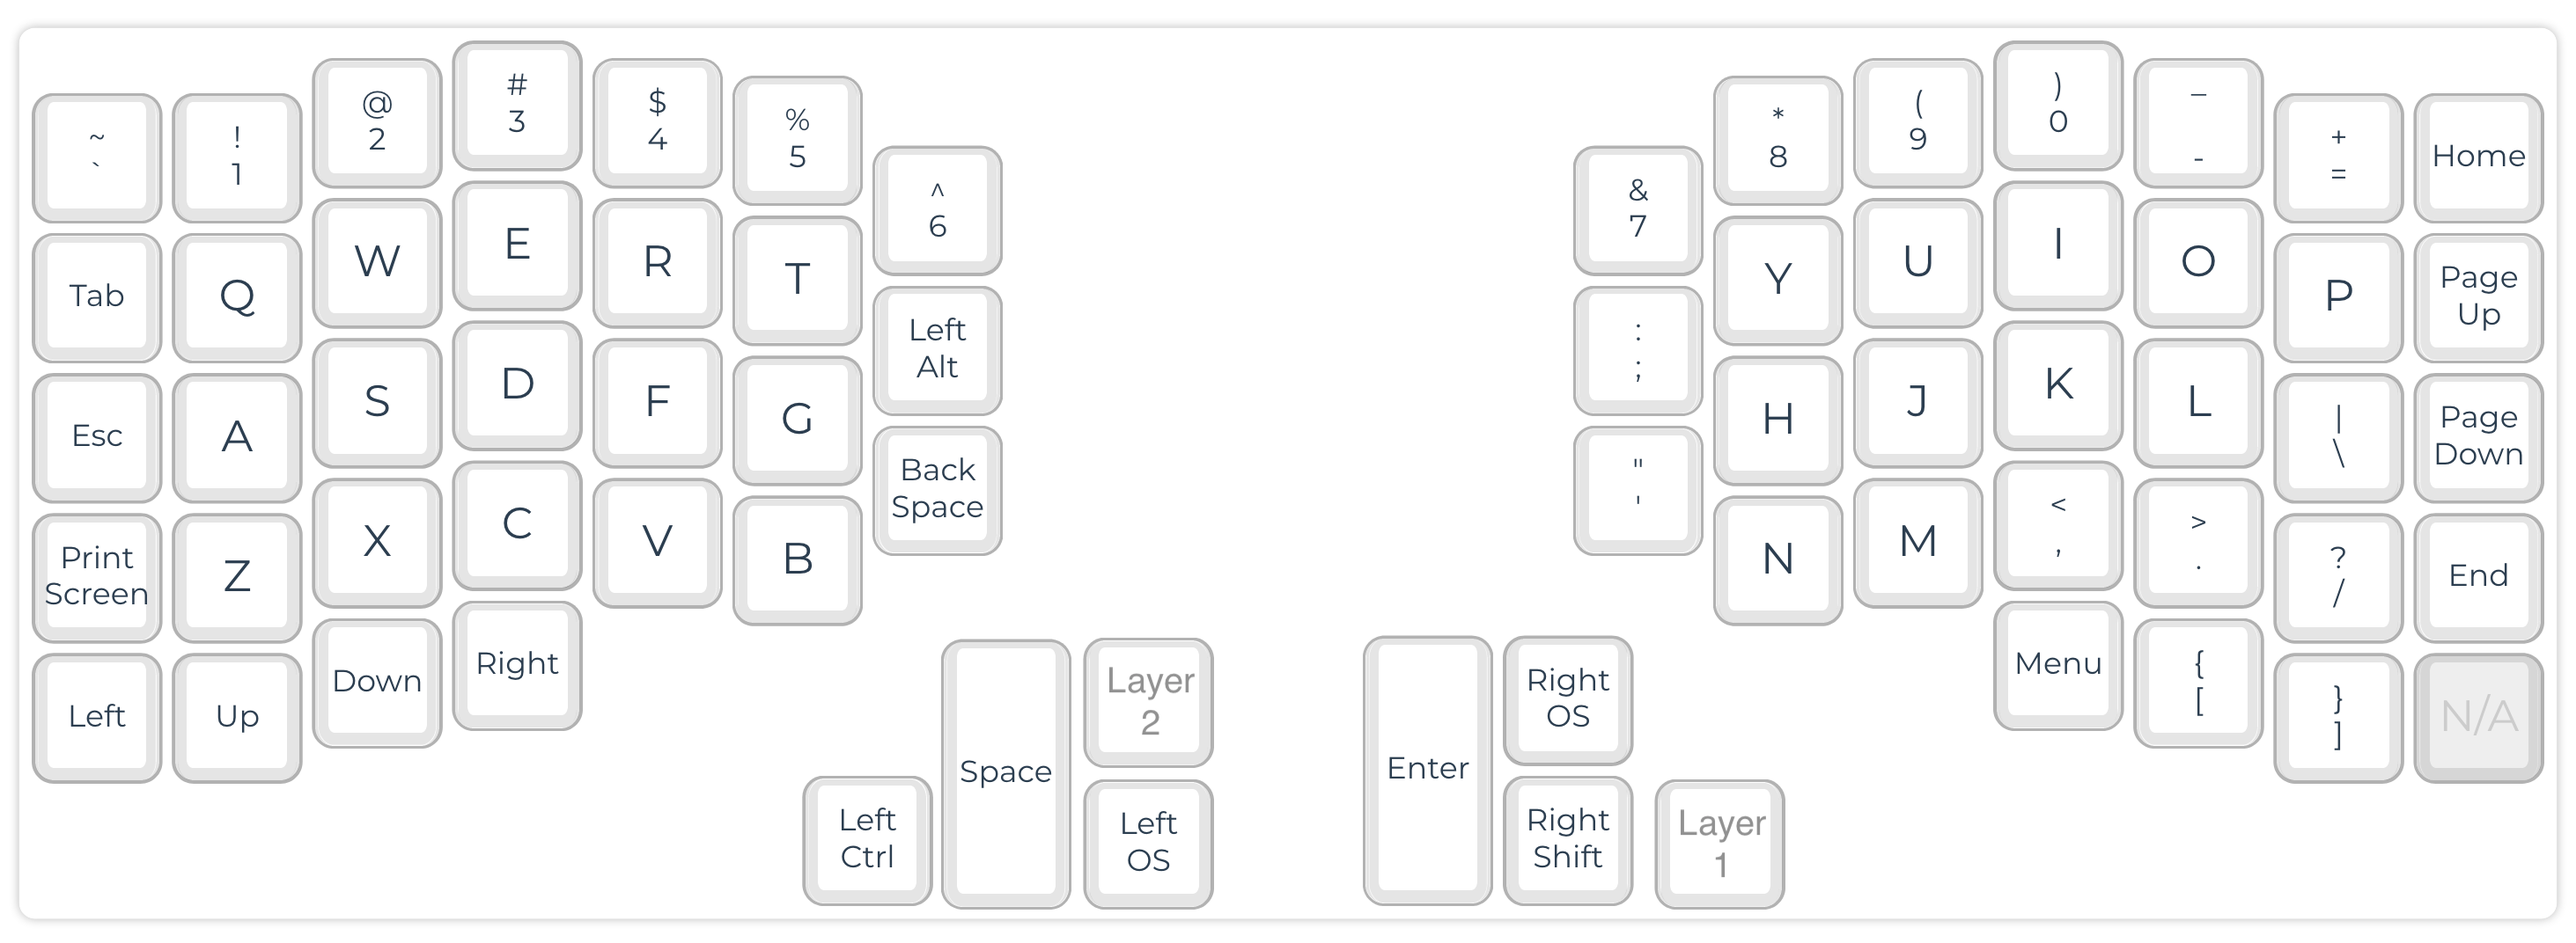
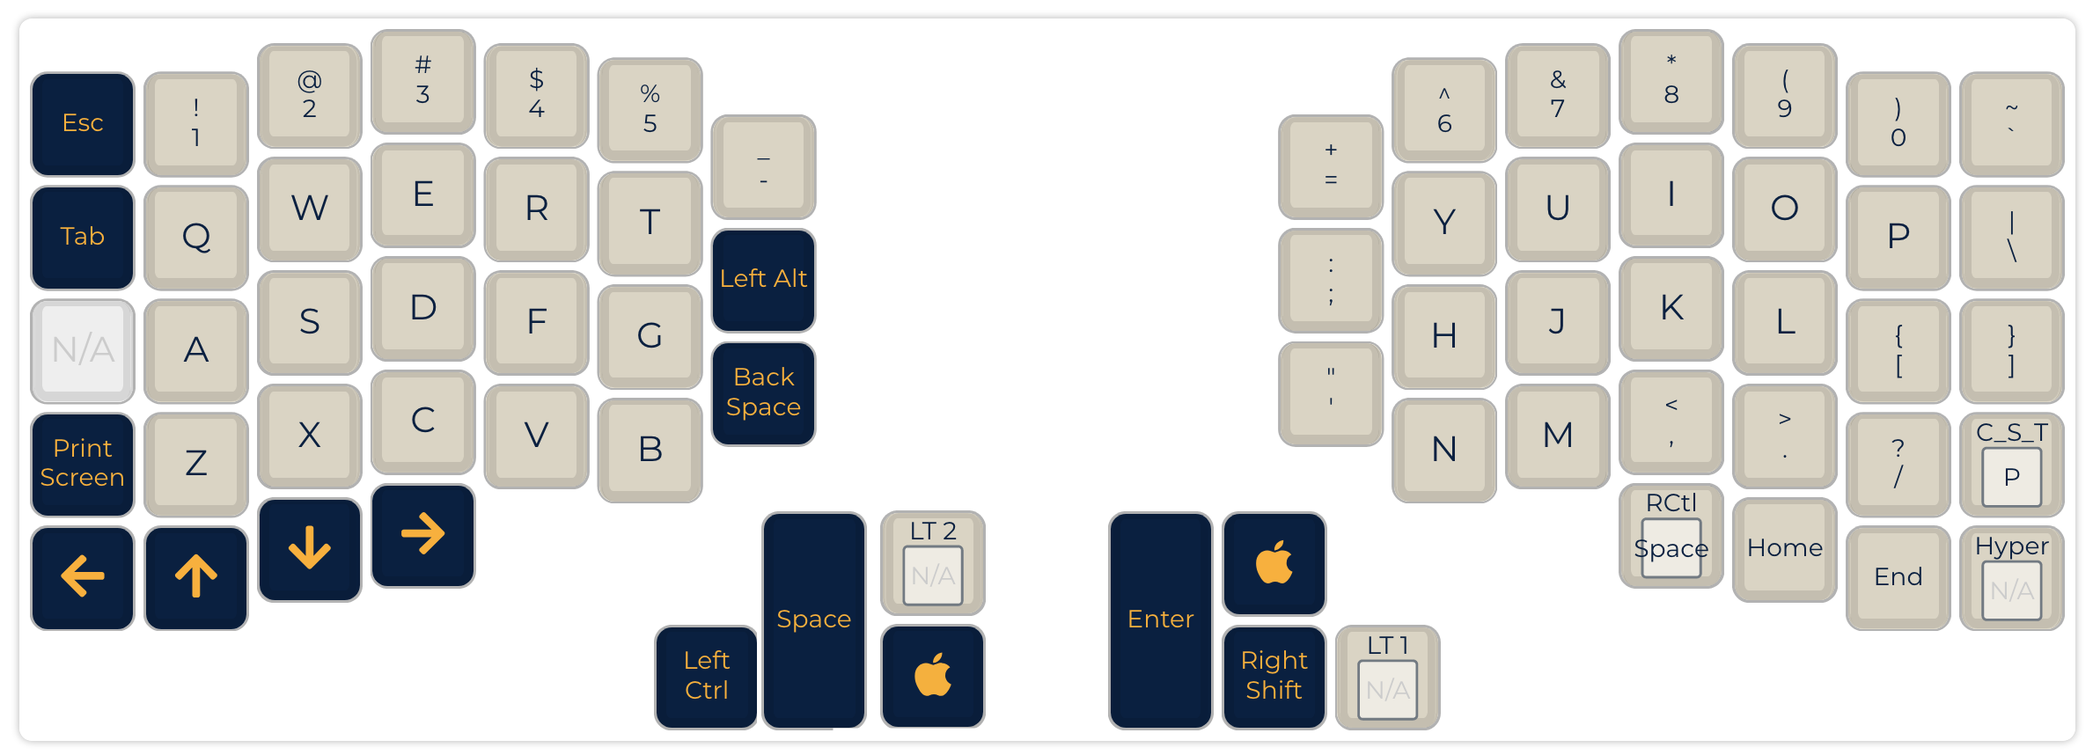
update keymap

diff --git a/keymap.c b/keymap.c
@@ -1,7 +1,7 @@
 #include QMK_KEYBOARD_H
 
 const uint16_t PROGMEM keymaps[][MATRIX_ROWS][MATRIX_COLS] = {
-	[0] = LAYOUT(KC_GRV, KC_1, KC_2, KC_3, KC_4, KC_5, KC_6, KC_7, KC_8, KC_9, KC_0, KC_MINS, KC_EQL, KC_HOME, KC_TAB, KC_Q, KC_W, KC_E, KC_R, KC_T, KC_LALT, KC_SCLN, KC_Y, KC_U, KC_I, KC_O, KC_P, KC_PGUP, KC_ESC, KC_A, KC_S, KC_D, KC_F, KC_G, KC_BSPC, KC_QUOT, KC_H, KC_J, KC_K, KC_L, KC_BSLS, KC_PGDN, KC_PSCR, KC_Z, KC_X, KC_C, KC_V, KC_B, LT(2,KC_NO), KC_RGUI, KC_N, KC_M, KC_COMM, KC_DOT, KC_SLSH, KC_END, KC_LEFT, KC_UP, KC_DOWN, KC_RGHT, KC_LCTL, KC_SPC, KC_LGUI, KC_ENT, KC_RSFT, LT(1,KC_NO), KC_APP, KC_LBRC, KC_RBRC, KC_NO),
-	[1] = LAYOUT(KC_MPLY, KC_MNXT, KC_MPRV, KC_VOLD, KC_VOLU, KC_MUTE, KC_NO, KC_NO, KC_NO, KC_NO, KC_NO, KC_NO, KC_NO, KC_NO, KC_NO, KC_WSCH, KC_MS_U, KC_NO, KC_NO, KC_NO, KC_NO, KC_NO, KC_NO, KC_NO, KC_NO, KC_NO, KC_NO, KC_NO, KC_NO, KC_MS_L, KC_MS_D, KC_MS_R, KC_WH_U, KC_WH_D, KC_NO, KC_NO, KC_NO, KC_BTN1, KC_BTN2, KC_BTN3, KC_NO, KC_NO, KC_NO, KC_NO, KC_NO, KC_CALC, KC_NO, KC_NO, KC_NO, KC_NO, KC_NO, KC_NO, KC_NO, KC_NO, KC_NO, KC_NO, KC_NO, KC_NO, KC_NO, KC_NO, KC_NO, KC_NO, KC_NO, KC_NO, KC_NO, KC_NO, KC_NO, KC_NO, KC_NO, KC_NO),
-	[2] = LAYOUT(KC_NO, KC_F1, KC_F2, KC_F3, KC_F4, KC_F5, KC_F6, KC_F7, KC_F8, KC_F9, KC_F10, KC_F11, KC_F12, KC_NO, KC_NO, KC_NO, KC_NO, KC_NO, KC_NO, KC_NO, KC_NO, KC_NO, KC_NO, KC_NO, KC_NO, KC_NO, KC_NO, KC_NO, KC_NO, KC_NO, KC_NO, KC_NO, KC_NO, KC_NO, KC_NO, KC_NO, KC_NO, KC_NO, KC_NO, KC_NO, KC_NO, KC_NO, KC_NO, KC_NO, KC_NO, KC_NO, KC_NO, KC_NO, KC_NO, KC_NO, KC_NO, KC_NO, KC_NO, KC_NO, KC_NO, KC_NO, KC_NO, KC_NO, KC_NO, KC_NO, KC_NO, KC_NO, KC_NO, KC_NO, KC_NO, KC_NO, KC_NO, KC_NO, KC_NO, KC_NO)
+	[0] = LAYOUT(KC_ESC, KC_1, KC_2, KC_3, KC_4, KC_5, KC_MINS, KC_EQL, KC_6, KC_7, KC_8, KC_9, KC_0, KC_GRV, KC_TAB, KC_Q, KC_W, KC_E, KC_R, KC_T, KC_LALT, KC_SCLN, KC_Y, KC_U, KC_I, KC_O, KC_P, KC_BSLS, KC_NO, KC_A, KC_S, KC_D, KC_F, KC_G, KC_BSPC, KC_QUOT, KC_H, KC_J, KC_K, KC_L, KC_LBRC, KC_RBRC, KC_PSCR, KC_Z, KC_X, KC_C, KC_V, KC_B, LT(2,KC_NO), KC_RGUI, KC_N, KC_M, KC_COMM, KC_DOT, KC_SLSH, RCTL(RSFT(KC_P)), KC_LEFT, KC_UP, KC_DOWN, KC_RGHT, KC_LCTL, KC_SPC, KC_LGUI, KC_ENT, KC_RSFT, LT(1,KC_NO), RCTL(KC_SPC), KC_HOME, KC_END, HYPR(KC_NO)),
+	[1] = LAYOUT(KC_MPLY, KC_MNXT, KC_MPRV, KC_VOLD, KC_VOLU, KC_MUTE, KC_NO, KC_NO, KC_NO, KC_NO, KC_NO, KC_NO, KC_NO, KC_NO, KC_NO, KC_NO, KC_NO, KC_MS_U, KC_NO, KC_WH_D, KC_LALT, KC_NO, KC_NO, KC_NO, KC_NO, KC_NO, KC_NO, KC_NO, KC_NO, KC_WH_R, KC_MS_L, KC_MS_D, KC_MS_R, KC_WH_L, KC_NO, KC_NO, KC_NO, KC_BTN1, KC_BTN2, KC_BTN3, KC_NO, KC_NO, KC_NO, KC_NO, KC_NO, KC_NO, KC_NO, KC_WH_U, KC_NO, KC_RGUI, KC_NO, KC_NO, KC_NO, KC_NO, KC_NO, KC_NO, KC_NO, KC_NO, KC_NO, KC_LCTL, KC_NO, KC_LGUI, KC_NO, KC_NO, KC_RSFT, KC_NO, KC_NO, KC_NO, KC_NO, KC_NO),
+	[2] = LAYOUT(KC_ESC, KC_F1, KC_F2, KC_F3, KC_F4, KC_F5, KC_NO, KC_NO, KC_F6, KC_F7, KC_F8, KC_F9, KC_F10, KC_NO, KC_NO, KC_F11, KC_F12, KC_F13, KC_F14, KC_F15, KC_LALT, KC_NO, KC_F16, KC_F17, KC_F18, KC_F19, KC_F20, KC_NO, KC_NO, KC_F21, KC_F22, KC_F23, KC_F24, KC_NO, KC_NO, KC_NO, KC_NO, KC_NO, KC_NO, KC_NO, KC_NO, KC_NO, KC_NO, KC_NO, KC_NO, KC_NO, KC_NO, KC_NO, KC_NO, KC_RGUI, KC_NO, KC_NO, KC_NO, KC_NO, KC_NO, KC_LALT, KC_NO, KC_NO, KC_NO, KC_LCTL, KC_NO, KC_LGUI, KC_NO, KC_NO, KC_RSFT, KC_NO, KC_NO, KC_NO, KC_NO, KC_NO)
 };

diff --git a/readme.md b/readme.md
@@ -1,16 +1,16 @@
 # My ergodash Keymap
 
+## Layer0 (default)
+
+![Layer0 image](./img/Layer0.png)
+
 ## Layer1
 
-![Layer1 image](./img/Layer0.png)
+![Layer1](./img/Layer1.png)
 
 ## Layer2
 
-![Layer2](./img/Layer1.png)
-
-## Layer3
-
-![Layer3 image](./img/Layer2.png)
+![Layer2 image](./img/Layer2.png)
 
 ## Thanks to QMK.fm
 
